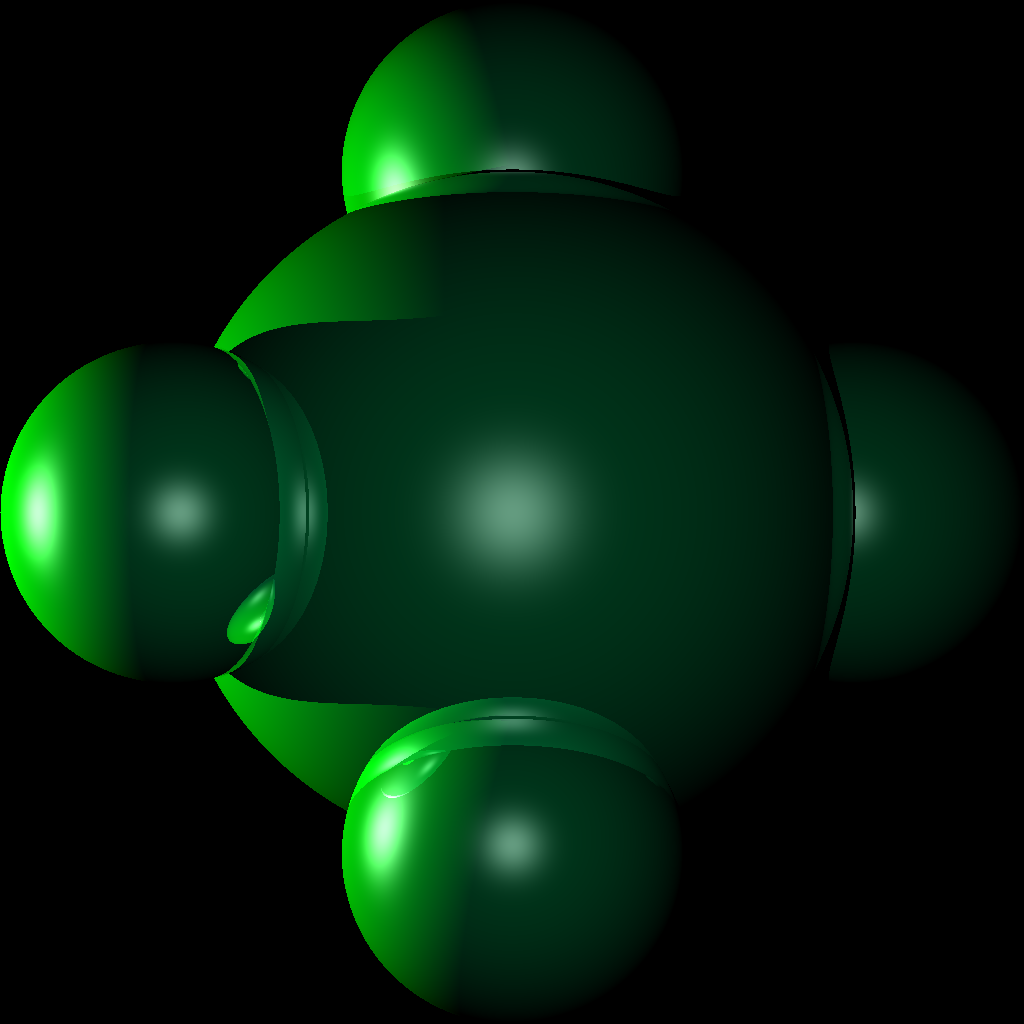
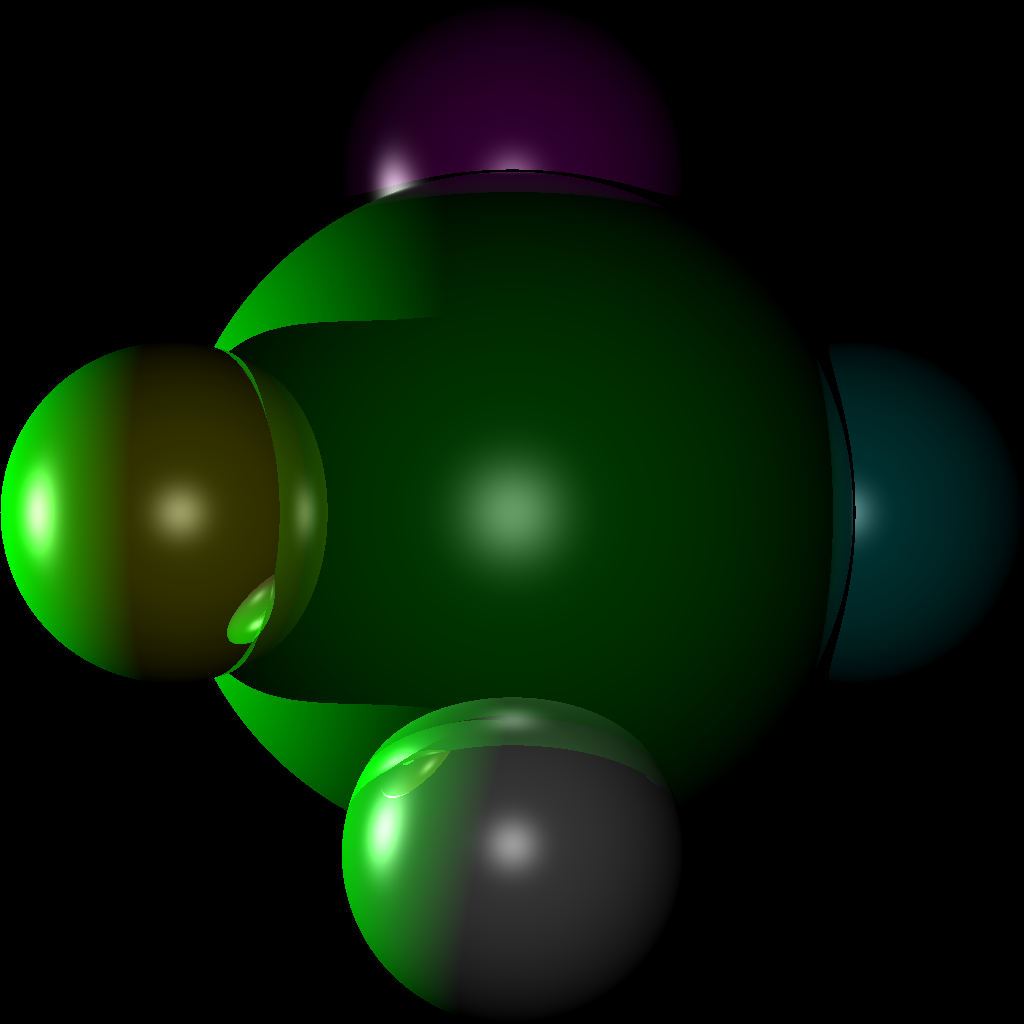
add colours to shapes

Changed region(s): [[0.0, 0.3438, 0.6562, 0.9688], [0.3125, 0.0, 0.6562, 0.2188]]

diff --git a/src/org/krummelur/raytracer/Renderer.java b/src/org/krummelur/raytracer/Renderer.java
@@ -94,7 +94,7 @@ public class Renderer {
                     Vector3 lightToSurfaceNormal = hitLocation.subtract(l.location).normalize();
                     double dot = -1 * surfaceNormal.dot(lightToSurfaceNormal);
                     if (dot > 0) {
-                        surfaceColor = surfaceColor.add(l.color.multiply(l.strength * 10 / hitLocation.distance(l.location)).multiply(dot));
+                        surfaceColor = surfaceColor.add(l.color.multiply(l.strength * 10 / hitLocation.distance(l.location)).multiply(dot).multiply(closestObject.color));
 
                         //add specular light
                         Vector3 surfaceToCameraDir = hitLocation.subtract(cameraRay.origin).normalize();
@@ -102,7 +102,7 @@ public class Renderer {
                         double specular = -1 * surfaceToCameraDir.dot(reflectionDirection);
                         if (specular > 0) {
                             specular = Math.abs(specular);
-                            specular = Math.pow(specular, 15);
+                            specular = Math.pow(specular, 20);
                             specular *= 2;
                             surfaceColor = surfaceColor.add(new Vector3(specular, specular, specular).multiply(l.strength));
                             returnRay = new Ray(hitLocation, cameraRay.direction.reflect(surfaceNormal));
@@ -111,7 +111,7 @@ public class Renderer {
                     }
                 }
                 returnRay = new Ray(hitLocation, cameraRay.direction.reflect(surfaceNormal));
-                returnRay.origin=returnRay.travel(0.01);
+                returnRay.origin=returnRay.travel(epsilon);
             }
             //world.objects.forEach();
         }

diff --git a/src/org/krummelur/raytracer/Main.java b/src/org/krummelur/raytracer/Main.java
@@ -16,13 +16,13 @@ public class Main {
     System.out.println(orth);
     Camera camera = new Camera(new Vector3(2,0, 0), new Vector3(-1,0,0));
     Renderer renderer = new Renderer(new World(), camera);
-    renderer.world.addObject3d(new Sphere(new Vector3(0,0, 0), 1));
-    renderer.world.addObject3d(new Sphere(new Vector3(0.5,1,0), 0.5));
-    renderer.world.addObject3d(new Sphere(new Vector3(-0.5,-1,0), 0.5));
-    renderer.world.addObject3d(new Sphere(new Vector3(0.5,0,1), 0.5));
-    renderer.world.addObject3d(new Sphere(new Vector3(-0.5,0,-1), 0.5));
+    renderer.world.addObject3d(new Sphere(new Vector3(0,0, 0), 1, new Vector3(0,1,0)));
+    renderer.world.addObject3d(new Sphere(new Vector3(0.5,1,0), 0.5, new Vector3(1,1,0)));
+    renderer.world.addObject3d(new Sphere(new Vector3(-0.5,-1,0), 0.5, new Vector3(0,1,1)));
+    renderer.world.addObject3d(new Sphere(new Vector3(0.5,0,1), 0.5, new Vector3(1,1,1)));
+    renderer.world.addObject3d(new Sphere(new Vector3(-0.5,0,-1), 0.5, new Vector3(1,0,1)));
     PointLight light1 = new PointLight(new Vector3(0, 5,0),100, new Vector3(0,1,0));
-    PointLight light2 = new PointLight(new Vector3(10,0 ,0),50, new Vector3(0,1,0.5));
+    PointLight light2 = new PointLight(new Vector3(10,0 ,0),50, new Vector3(1,1,1));
     renderer.world.addLight(light1);
     renderer.world.addLight(light2);
     OrthogonalSet ortho = new OrthogonalSet(new Vector3(1,0,0));

diff --git a/src/org/krummelur/raytracer/Sphere.java b/src/org/krummelur/raytracer/Sphere.java
@@ -4,10 +4,16 @@ public class Sphere extends Shape3d {
 	private final double epsilon = 0.000001;
 
 	double radius;
-	
-	public Sphere(Vector3 location, double radius) {
+
+
+	public Sphere(Vector3 location, double radius, Vector3 color) {
 		this.radius = radius;
 		this.location = location;
+		this.color = color;
+	}
+
+	public Sphere(Vector3 location, double radius) {
+		this(location, radius, new Vector3(1,1,1));
 	}
 
 	//Ray must be normalized

diff --git a/src/org/krummelur/raytracer/Shape3d.java b/src/org/krummelur/raytracer/Shape3d.java
@@ -1,6 +1,7 @@
 package org.krummelur.raytracer;
 
 public abstract class Shape3d extends Object3d{
+    Vector3 color;
     abstract double hit(Ray ray);
     abstract Vector3 surfaceNormal(Vector3 point);
 }
